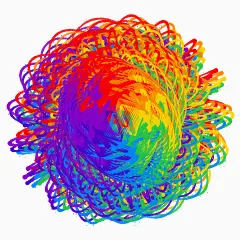
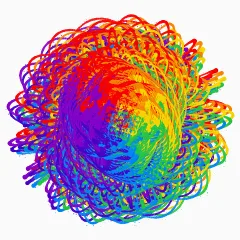
feat: Plateau-Rayleigh-drypp - strålen perler seg når bøtta går tom
Ekte maling stopper ikke brått: når strålen sultes, klyper overflate-
spenningen den opp i dråper. Ny calcStreamBreakup(normFlow, viscosity)
i physics.ts (onset 0.14 + (1-visk)*0.08 - seig maling holder tråden
lenger); malingsløkka veksler så mellom perlesegmenter (litt fetere,
x(1+0.35*starve)) og penn-opp-gap som vokser mot tom bøtte.

- Gap-segmenter flytter ankeret og lagres IKKE som punkter, så
  WYSIWYG-eksporten replayer identisk uten nye kontrakter.
- Deterministisk via kjørings-rng (samme frø -> samme drypp); rng
  konsumeres KUN i sputringsfasen, så alt før den er byte-identisk
  med tidligere output.
- Headless-QA: Default/Organisk/Geometrisk/Zen/Blomst byte-identiske
  med HEAD; Rosett/Kaotisk/Galakse/Regnbue får granulær dryppetekstur
  i senteret (flate felt brytes opp) - de 4 miniatyrbildene er
  regenerert med samme pipeline (de 5 andre forble byte-identiske).
- Determinisme verifisert: samme frø -> identisk PNG-hash, ulikt frø
  -> ulik. Kaotisk full kjøring nå ca. 778k punkter (før ca. 888k).
- CLAUDE.md: paragraf 2/paragraf 6 oppdatert (målt: kapasiteten binder
  faktisk for Kaotisk/Galakse/Regnbue) + QA-gotcha om rng-rekkefølge.

Changed region(s): [[0.4083, 0.3792, 0.6417, 0.6417]]

diff --git a/src/components/PaintCanvas.tsx b/src/components/PaintCanvas.tsx
@@ -6,6 +6,7 @@ import {
   calcPosition, calcVelocity, isSimulationDone, prepareHarmonograph,
   calcPaintFlowRate, calcDropRadius, calcDropOpacity, calcBobHeight,
   calcCentripetalAccel, shouldSplash, calcPaintLevel, calcCanvasOffset,
+  calcStreamBreakup,
 } from '@/lib/physics';
 import { drawThickStroke, drawSplashSplat, drawPaperTexture, getSymmetryTransforms, copySeed, mulberry32, Rng, SPLASH_GRAVITY, splashDrag } from '@/lib/painter';
 
@@ -51,6 +52,9 @@ export default function PaintCanvas({
   const totalFlow = useRef(0);
   const prevHolePx = useRef<Map<number, { x: number; y: number }>>(new Map());
   const prevHoleNorm = useRef<Map<number, { x: number; y: number }>>(new Map());
+  // Plateau–Rayleigh sputter: per-hole draw/gap state while the dying stream
+  // breaks into drops (remaining = normalized distance left in the current phase).
+  const sputter = useRef<Map<number, { draw: boolean; remaining: number }>>(new Map());
   const prevStateRef = useRef<SimulationState>('idle');
   const seedRef = useRef(1);
   // Per-run seeded rng: jitter and splash decisions are reproducible from settings.seed.
@@ -148,6 +152,7 @@ export default function PaintCanvas({
     prevVel.current = { vx: 0, vy: 0 };
     prevHolePx.current.clear();
     prevHoleNorm.current.clear();
+    sputter.current.clear();
   }, []);
 
   // ── State transitions ──
@@ -367,7 +372,6 @@ export default function PaintCanvas({
 
           const px = (hx + jx) * PAINT_SIZE;
           const py = (hy + jy) * PAINT_SIZE;
-          const pr = jr * PAINT_SIZE;
 
           const normX = hx + jx;
           const normY = hy + jy;
@@ -380,31 +384,59 @@ export default function PaintCanvas({
           // Merge micro-segments: the dying pendulum moves less than a pixel per
           // step — carry until the segment is long enough to actually draw.
           if (segLen >= MIN_SEGMENT) {
-            const strokeSeed = nextSeed();
-            const prev = prevHolePx.current.get(h);
-            if (prev) {
-              const d = Math.sqrt((px - prev.x) ** 2 + (py - prev.y) ** 2);
-              if (d < PAINT_SIZE * 0.15 && d > 0.3) {
-                const ts = getSymmetryTransforms(px, py, PAINT_SIZE, sym);
-                const pts = getSymmetryTransforms(prev.x, prev.y, PAINT_SIZE, sym);
-                for (let i = 0; i < ts.length; i++) {
-                  drawThickStroke(paintCtx, pts[i].x, pts[i].y, ts[i].x, ts[i].y, pr, hole.color, opacity, ps.viscosity, ps.brushType, speed, copySeed(strokeSeed, i), shadowOn);
+            // Plateau–Rayleigh sputter: when the bucket runs low, the thin stream
+            // pinches into drops — the line alternates beads and gaps instead of
+            // stopping dead. Pen-up segments advance the anchor (a real gap) and
+            // store nothing, so the WYSIWYG export replays identically for free.
+            const starve = calcStreamBreakup(normFlow, ps.viscosity);
+            let penDown = true;
+            if (starve > 0) {
+              let st = sputter.current.get(h);
+              if (!st) {
+                st = { draw: true, remaining: jr * (2 + rng() * 3) };
+                sputter.current.set(h, st);
+              }
+              st.remaining -= segLen;
+              if (st.remaining <= 0) {
+                st.draw = !st.draw;
+                st.remaining = st.draw
+                  ? jr * (2 + rng() * 3)                 // one drop's worth of line
+                  : jr * (1 + rng() * 2) * (6 * starve); // gaps widen as the stream starves
+              }
+              penDown = st.draw;
+            } else {
+              sputter.current.delete(h);
+            }
+
+            if (penDown) {
+              // Detaching drops bulge: beads are slightly fatter than the starved stream.
+              const drawR = starve > 0 ? jr * (1 + starve * 0.35) : jr;
+              const strokeSeed = nextSeed();
+              const prev = prevHolePx.current.get(h);
+              if (prev) {
+                const d = Math.sqrt((px - prev.x) ** 2 + (py - prev.y) ** 2);
+                if (d < PAINT_SIZE * 0.15 && d > 0.3) {
+                  const ts = getSymmetryTransforms(px, py, PAINT_SIZE, sym);
+                  const pts = getSymmetryTransforms(prev.x, prev.y, PAINT_SIZE, sym);
+                  for (let i = 0; i < ts.length; i++) {
+                    drawThickStroke(paintCtx, pts[i].x, pts[i].y, ts[i].x, ts[i].y, drawR * PAINT_SIZE, hole.color, opacity, ps.viscosity, ps.brushType, speed, copySeed(strokeSeed, i), shadowOn);
+                  }
                 }
               }
+
+              pointsRef.current.push({
+                x: normX, y: normY,
+                fromX: prevNorm?.x, fromY: prevNorm?.y,
+                radius: drawR, color: hole.color, opacity,
+                viscosity: ps.viscosity,
+                brushType: ps.brushType,
+                speed,
+                seed: strokeSeed,
+                blend: wet || undefined,
+                shadow: shadowOn || undefined,
+              });
             }
             prevHolePx.current.set(h, { x: px, y: py });
-
-            pointsRef.current.push({
-              x: normX, y: normY,
-              fromX: prevNorm?.x, fromY: prevNorm?.y,
-              radius: jr, color: hole.color, opacity,
-              viscosity: ps.viscosity,
-              brushType: ps.brushType,
-              speed,
-              seed: strokeSeed,
-              blend: wet || undefined,
-              shadow: shadowOn || undefined,
-            });
             prevHoleNorm.current.set(h, { x: normX, y: normY });
           }
           totalFlow.current += normFlow * DT * 0.01;

diff --git a/src/lib/physics.ts b/src/lib/physics.ts
@@ -217,6 +217,17 @@ export function calcDropOpacity(baseOpacity: number, radius: number, baseRadius:
   return Math.min(baseOpacity * (0.82 + sizeRatio * 0.13) * (0.9 + flowRate * 0.1), 1);
 }
 
+/** Plateau–Rayleigh breakup: how starved the paint stream is (0 = continuous jet,
+ *  1 = fully broken into drops). A real thin stream from a near-empty bucket doesn't
+ *  just stop — surface tension pinches it into droplets, so the drawn line sputters
+ *  into beads and gaps before the paint runs out. Viscous paint holds a continuous
+ *  thread longer (breakup onset at lower flow). */
+export function calcStreamBreakup(normFlow: number, viscosity: number): number {
+  const onset = 0.14 + (1 - viscosity) * 0.08;
+  if (normFlow >= onset) return 0;
+  return Math.min(1, Math.pow(1 - normFlow / onset, 1.4));
+}
+
 export function calcCentripetalAccel(vx: number, vy: number, prevVx: number, prevVy: number, dt: number): number {
   const ax = (vx - prevVx) / dt;
   const ay = (vy - prevVy) / dt;

diff --git a/CLAUDE.md b/CLAUDE.md
@@ -49,8 +49,16 @@ requires the initial perpendicular velocity to be on the order of `ω·r` (a fac
   long run. 1.0907 (Kaotisk) is a deliberate airy woven-web look. Simple fractions (3:2, 5:3, 2:1)
   are Lissajous territory and now slowly rotate — usable for variety.
 - The dense center that appears late in a run is the pendulum settling (physically real); control
-  its size with damping (ends the run sooner) — bucketCapacity mostly does NOT bind because
-  Torricelli flow slows as the bucket empties.
+  its size with damping (ends the run sooner). bucketCapacity DOES bind for the heavier presets
+  (measured 2026-07: Kaotisk/Galakse/Regnbue end by empty bucket; Rosett bottoms out at
+  paintLevel 0.076) — Torricelli flow slows the drain but does not stop it.
+- **Plateau–Rayleigh sputter (2026-07):** a starving stream (bucket almost empty) breaks into
+  drops instead of stopping dead. `calcStreamBreakup(normFlow, viscosity)` in `physics.ts` returns
+  starvation 0–1 (onset `0.14 + (1−viscosity)·0.08`; viscous paint holds a thread longer); the
+  PaintCanvas hole loop then alternates bead segments (drawn slightly fatter, ×(1+0.35·starve))
+  and pen-up gaps (per-hole state machine, gaps widen as starve→1). Pen-up segments advance the
+  stroke anchor and store NO point — the WYSIWYG export replays identically for free. This turns
+  the flat solid fields in the dense center into granular drip texture (see the changed presets).
 - `calcBobHeight` must depend on L (longer string → smaller swing angle → flatter arc → less spread).
 
 ## 3. WYSIWYG export — the core invariant (READ BEFORE TOUCHING `painter.ts`)
@@ -147,7 +155,14 @@ deliberately **rng-FREE** and scaled purely by stroke radius, so (a) shadow-off 
 byte-identical to pre-feature output — verified 9/9 hashes vs HEAD — and (b) live/export always
 match at any size. Per-brush width via `SHADOW_WIDTH` (spray = 0: mist has no ridge); tuning knobs
 `SHADOW_ALPHA = 0.1`, `SHADOW_OFFSET = 0.45` (light from top-left). If you add a brush, add its
-`SHADOW_WIDTH` entry. "Overrask meg" enables it 25% of the time on light grounds only).
+`SHADOW_WIDTH` entry. "Overrask meg" enables it 25% of the time on light grounds only)
+· Plateau–Rayleigh sputter (see §2; 2026-07): the dying stream beads into drops before the bucket
+empties. QA-verified: Default/Organisk/Geometrisk/Zen/Blomst render byte-identically to pre-feature
+(they never starve); Rosett/Kaotisk/Galakse/Regnbue gained drip texture in the dense center and
+their 4 picker thumbnails were regenerated. Kaotisk's full run is now ≈778k points (was ≈888k).
+**QA gotcha:** the headless sim must mirror the sputter state machine EXACTLY, including rng call
+order per hole: jitter jx/jy/jr → sputter rng (ONLY when starve > 0: 1 call on state init, 1 on
+each bead↔gap flip) → splash rngs. A mismatch silently desyncs every later stroke seed.
 
 Remaining:
 1. **i18n** (English toggle) to widen reach.
